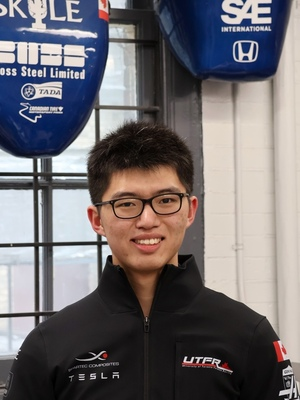
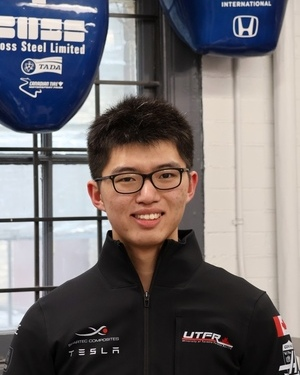
Added sponsor links and fixed image sizing

diff --git a/src/components/Sponsors.jsx b/src/components/Sponsors.jsx
@@ -226,54 +226,54 @@ const Sponsors = () => {
             <div className=''>
                 <div className='flex justify-center py-10 items-center'>
                     <div className='grid grid-cols-1 md:grid-cols-5 gap-x-10'>
-                        <a href="https://skule.ca/" target="_blank" rel="noreferrer">
+                        <a href="https://www.abcofreight.com/" target="_blank" rel="noreferrer">
                             <img className="sponsorImg" src={Abco} alt="" />
                         </a>
-                        <a href="https://skule.ca/" target="_blank" rel="noreferrer">
+                        <a href="https://www.abcofreight.com/" target="_blank" rel="noreferrer">
                             <img className="sponsorImg" src={AIHull} alt="" />
                         </a>
-                        <a href="https://skule.ca/" target="_blank" rel="noreferrer">
+                        <a href="https://www.altium.com/" target="_blank" rel="noreferrer">
                             <img className="sponsorImg" src={Altium} alt="" />
                         </a>
-                        <a href="https://skule.ca/" target="_blank" rel="noreferrer">
+                        <a href="https://www.ansys.com/academic/students/student-teams" target="_blank" rel="noreferrer">
                             <img className="sponsorImg" src={Ansys} alt="" />
                         </a>
-                        <a href="https://skule.ca/" target="_blank" rel="noreferrer">
+                        <a href="https://astg.ca/" target="_blank" rel="noreferrer">
                             <img className="sponsorImg" src={AST} alt="" />
                         </a>
                     </div>
                 </div>
                 <div className='flex justify-center pb-10 items-center'>
                     <div className='grid grid-cols-1 md:grid-cols-5 gap-x-10'>
-                        <a href="https://skule.ca/" target="_blank" rel="noreferrer">
+                        <a href="https://gamebridgegokarts.com/" target="_blank" rel="noreferrer">
                             <img className="sponsorImg" src={Brechin}  alt="" />
                         </a>
-                        <a href="https://skule.ca/" target="_blank" rel="noreferrer">
+                        <a href="https://disensors.com/" target="_blank" rel="noreferrer">
                             <img className="sponsorImg" src={Durham} alt="" />
                         </a>
-                        <a href="https://skule.ca/" target="_blank" rel="noreferrer">
+                        <a href="http://wihatools.ca/" target="_blank" rel="noreferrer">
                             <img className="sponsorImg" src={Wiha}  alt="" />
                         </a>
-                        <a href="https://skule.ca/" target="_blank" rel="noreferrer">
+                        <a href="https://emrax.com/" target="_blank" rel="noreferrer">
                             <img className="sponsorImg" src={Emrax} alt="" />
                         </a>
-                        <a href="https://skule.ca/" target="_blank" rel="noreferrer">
+                        <a href="http://gardel.on.ca/" target="_blank" rel="noreferrer">
                             <img className="sponsorImg" src={Gardel} alt="" />
                         </a>
                     </div>
                 </div>
                 <div className='flex justify-center pb-10 items-center'>
                     <div className='grid grid-cols-1 md:grid-cols-5 gap-x-10'>
-                        <a href="https://skule.ca/" target="_blank" rel="noreferrer">
+                        <a href="https://ghaasfoundation.org/content/ghf/en/home.html" target="_blank" rel="noreferrer">
                             <img className="sponsorImg" src={Haas} alt="" />
                         </a>
-                        <a href="https://skule.ca/" target="_blank" rel="noreferrer">
+                        <a href="http://hakkousa.com/" target="_blank" rel="noreferrer">
                             <img className="sponsorImg" src={Hakko}  alt="" />
                         </a>
-                        <a href="https://skule.ca/" target="_blank" rel="noreferrer">
+                        <a href="https://hawk-eye.com/" target="_blank" rel="noreferrer">
                             <img className="sponsorImg" src={HawkeyeIndustries} alt="" />
                         </a>
-                        <a href="https://skule.ca/" target="_blank" rel="noreferrer">
+                        <a href="https://www.kisssoft.com/de" target="_blank" rel="noreferrer">
                             <img className="sponsorImg" src={KissSoft} alt="" />
                         </a>
                         <a href="https://skule.ca/" target="_blank" rel="noreferrer">
@@ -283,64 +283,64 @@ const Sponsors = () => {
                 </div>
                 <div className='flex justify-center pb-10 items-center'>
                     <div className='grid grid-cols-1 md:grid-cols-5 gap-x-10'>
-                        <a href="https://skule.ca/" target="_blank" rel="noreferrer">
+                        <a href="https://thinklucid.com/" target="_blank" rel="noreferrer">
                             <img className="sponsorImg" src={Lucid} alt="" />
                         </a>
-                        <a href="https://skule.ca/" target="_blank" rel="noreferrer">
+                        <a href="https://www.multimatic.com/" target="_blank" rel="noreferrer">
                             <img className="sponsorImg" src={Multimatic} alt="" />
                         </a>
-                        <a href="https://skule.ca/" target="_blank" rel="noreferrer">
+                        <a href="https://ntn.ca/" target="_blank" rel="noreferrer">
                             <img className="sponsorImg" src={NTN} alt="" />
                         </a>
-                        <a href="https://skule.ca/" target="_blank" rel="noreferrer">
+                        <a href="http://orionbms.com/" target="_blank" rel="noreferrer">
                             <img className="sponsorImg" src={OrionBMS2} alt="" />
                         </a>
                     </div>
                 </div>
                 <div className='flex justify-center pb-10 items-center'>
                     <div className='grid grid-cols-1 md:grid-cols-5 gap-x-10'>
-                        <a href="https://skule.ca/" target="_blank" rel="noreferrer">
+                        <a href="https://www.saleae.com/" target="_blank" rel="noreferrer">
                             <img className="sponsorImg" src={Salae} alt="" />
                         </a>
-                        <a href="https://skule.ca/" target="_blank" rel="noreferrer">
+                        <a href="https://www.siemens.com/ca/en.html" target="_blank" rel="noreferrer">
                             <img className="sponsorImg" src={SherwinWilliams} alt="" />
                         </a>
-                        <a href="https://skule.ca/" target="_blank" rel="noreferrer">
+                        <a href="http://new.siemens.com/ca/en.html" target="_blank" rel="noreferrer">
                             <img className="sponsorImg" src={Siemens} alt="" />
                         </a>
-                        <a href="https://skule.ca/" target="_blank" rel="noreferrer">
+                        <a href="https://www.sparteccomposites.com/" target="_blank" rel="noreferrer">
                             <img className="sponsorImg" src={Spartec} alt="" />
                         </a>
-                        <a href="https://skule.ca/" target="_blank" rel="noreferrer">
+                        <a href="https://studentlife.utoronto.ca/program/student-initiative-fund/" target="_blank" rel="noreferrer">
                             <img className="sponsorImg" src={SIF} alt="" />
                         </a>
                     </div>
                 </div>
                 <div className='flex justify-center pb-10 items-center'>
                     <div className='grid grid-cols-1 md:grid-cols-5 gap-x-10'>
-                        <a href="https://skule.ca/" target="_blank" rel="noreferrer">
+                        <a href="http://te.com/global-en/home.html" target="_blank" rel="noreferrer">
                             <img className="sponsorImg" src={TE} alt="" />
                         </a>
-                        <a href="https://skule.ca/" target="_blank" rel="noreferrer">
+                        <a href="http://tek.com/en" target="_blank" rel="noreferrer">
                             <img className="sponsorImg" src={Tektronix} alt="" />
                         </a>
-                        <a href="https://skule.ca/" target="_blank" rel="noreferrer">
+                        <a href="http://texonic.net/en" target="_blank" rel="noreferrer">
                             <img className="sponsorImg" src={Texonic} alt="" />
                         </a>
-                        <a href="https://skule.ca/" target="_blank" rel="noreferrer">
+                        <a href="https://engsci.utoronto.ca/" target="_blank" rel="noreferrer">
                             <img className="sponsorImg" src={UofTEngSci} alt="" />
                         </a>
-                        <a href="https://skule.ca/" target="_blank" rel="noreferrer">
+                        <a href="http://www.villacharities.com/" target="_blank" rel="noreferrer">
                             <img className="sponsorImg" src={Villa} alt="" />
                         </a>
                     </div>
                 </div>
                 <div className='flex justify-center pb-16 items-center'>
                     <div className='grid grid-cols-1 md:grid-cols-2 gap-x-10'>
-                        <a href="https://skule.ca/" target="_blank" rel="noreferrer">
+                        <a href="http://www.wemas.de/" target="_blank" rel="noreferrer">
                             <img className="sponsorImg" src={Wemas} alt="" />
                         </a>
-                        <a href="https://skule.ca/" target="_blank" rel="noreferrer">
+                        <a href="https://www.electro-meters.com/" target="_blank" rel="noreferrer">
                             <img className="sponsorImg" src={EM} alt="" />
                         </a>
                     </div>
@@ -350,114 +350,114 @@ const Sponsors = () => {
             <div className=''>
                 <div className='flex justify-center py-10 items-center'>
                     <div className='grid grid-cols-1 md:grid-cols-5 gap-x-10'>
-                        <a href="https://skule.ca/" target="_blank" rel="noreferrer">
+                        <a href="https://altair.com/" target="_blank" rel="noreferrer">
                         <img className="sponsorImg" src={Altair} alt="" />
                         </a>
-                        <a href="https://skule.ca/" target="_blank" rel="noreferrer">
+                        <a href="https://atlht.ca/" target="_blank" rel="noreferrer">
                         <img className="sponsorImg" src={Atlantic} alt="" />
                         </a>
-                        <a href="https://skule.ca/" target="_blank" rel="noreferrer">
+                        <a href="https://atoms.mie.utoronto.ca/" target="_blank" rel="noreferrer">
                         <img className="sponsorImg" src={AtomsLab} alt="" />
                         </a>
-                        <a href="https://skule.ca/" target="_blank" rel="noreferrer">
+                        <a href="https://www.benderinc.com/" target="_blank" rel="noreferrer">
                         <img className="sponsorImg" src={Bender} alt="" />
                         </a>
-                        <a href="https://skule.ca/" target="_blank" rel="noreferrer">
+                        <a href="http://bmrswired.com/" target="_blank" rel="noreferrer">
                         <img className="sponsorImg" src={BMRSWired} alt="" />
                         </a>
                     </div>
                 </div>
                 <div className='flex justify-center pb-10 items-center'>
                     <div className='grid grid-cols-1 md:grid-cols-5 gap-x-10'>
-                        <a href="https://skule.ca/" target="_blank" rel="noreferrer">
+                        <a href="https://www.digikey.ca/" target="_blank" rel="noreferrer">
                         <img className="sponsorImg" src={DigiKey} alt="" />
                         </a>
-                        <a href="https://skule.ca/" target="_blank" rel="noreferrer">
+                        <a href="https://www.edmundoptics.ca/" target="_blank" rel="noreferrer">
                         <img className="sponsorImg" src={EdmundOptics} alt="" />
                         </a>
-                        <a href="https://skule.ca/" target="_blank" rel="noreferrer">
+                        <a href="https://www.factorytire.ca/" target="_blank" rel="noreferrer">
                         <img className="sponsorImg" src={FactoryTire} alt="" />
                         </a>
-                        <a href="https://skule.ca/" target="_blank" rel="noreferrer">
+                        <a href="http://hkmingda.com/" target="_blank" rel="noreferrer">
                         <img className="sponsorImg" src={HKMingda} alt="" />
                         </a>
-                        <a href="https://skule.ca/" target="_blank" rel="noreferrer">
+                        <a href="http://igus.ca/" target="_blank" rel="noreferrer">
                         <img className="sponsorImg" src={igus} alt="" />
                         </a>
                     </div>
                 </div>
                 <div className='flex justify-center pb-10 items-center'>
                     <div className='grid grid-cols-1 md:grid-cols-5 gap-x-10'>
-                        <a href="https://skule.ca/" target="_blank" rel="noreferrer">
+                        <a href="https://jlcpcb.com/" target="_blank" rel="noreferrer">
                         <img className="sponsorImg" src={JLCPCB} alt="" />
                         </a>
-                        <a href="https://skule.ca/" target="_blank" rel="noreferrer">
+                        <a href="https://lra3d.com/" target="_blank" rel="noreferrer">
                         <img className="sponsorImg" src={LRA} alt="" />
                         </a>
-                        <a href="https://skule.ca/" target="_blank" rel="noreferrer">
+                        <a href="https://www.maxongroup.com/maxon/view/content/index" target="_blank" rel="noreferrer">
                         <img className="sponsorImg" src={Maxon} alt="" />
                         </a>
-                        <a href="https://skule.ca/" target="_blank" rel="noreferrer">
+                        <a href="http://mechanicaladvertising.com/" target="_blank" rel="noreferrer">
                         <img className="sponsorImg" src={MechanicalAdvertising} alt="" />
                         </a>
-                        <a href="https://skule.ca/" target="_blank" rel="noreferrer">
+                        <a href="https://mgchemicals.com/" target="_blank" rel="noreferrer">
                         <img className="sponsorImg" src={MG} alt="" />
                         </a>
                     </div>
                 </div>
                 <div className='flex justify-center pb-10 items-center'>
                     <div className='grid grid-cols-1 md:grid-cols-5 gap-x-10'>
-                        <a href="https://skule.ca/" target="_blank" rel="noreferrer">
+                        <a href="http://nobleprecision.com/" target="_blank" rel="noreferrer">
                         <img className="sponsorImg" src={NPT} alt="" />
                         </a>
-                        <a href="https://skule.ca/" target="_blank" rel="noreferrer">
+                        <a href="http://www.oakvilleblueprinting.ca/" target="_blank" rel="noreferrer">
                         <img className="sponsorImg" src={OakvilleBlueprint} alt="" />
                         </a>
-                        <a href="https://skule.ca/" target="_blank" rel="noreferrer">
+                        <a href="https://oldershawsteel.com/" target="_blank" rel="noreferrer">
                         <img className="sponsorImg" src={Oldershaw} alt="" />
                         </a>
-                        <a href="https://skule.ca/" target="_blank" rel="noreferrer">
+                        <a href="http://oshawagear.ca/" target="_blank" rel="noreferrer">
                         <img className="sponsorImg" src={Oshawa} alt="" />
                         </a>
-                        <a href="https://skule.ca/" target="_blank" rel="noreferrer">
+                        <a href="https://www.flyribbit.com/" target="_blank" rel="noreferrer">
                         <img className="sponsorImg" src={Ribbit} alt="" />
                         </a>
                     </div>
                 </div>
                 <div className='flex justify-center pb-10 items-center'>
                     <div className='grid grid-cols-1 md:grid-cols-5 gap-x-10'>
-                        <a href="https://skule.ca/" target="_blank" rel="noreferrer">
+                        <a href="https://www.peak-system.com/Home.59.0.html?&L=1" target="_blank" rel="noreferrer">
                         <img className="sponsorImg" src={Peak} alt="" />
                         </a>
-                        <a href="https://skule.ca/" target="_blank" rel="noreferrer">
+                        <a href="https://phytools.com/" target="_blank" rel="noreferrer">
                         <img className="sponsorImg" src={Phytools} alt="" />
                         </a>
-                        <a href="https://skule.ca/" target="_blank" rel="noreferrer">
+                        <a href="http://susprog.com/index.html" target="_blank" rel="noreferrer">
                         <img className="sponsorImg" src={Susprog} alt="" />
                         </a>
-                        <a href="https://skule.ca/" target="_blank" rel="noreferrer">
+                        <a href="http://texense.com/en" target="_blank" rel="noreferrer">
                         <img className="sponsorImg" src={Texense} alt="" />
                         </a>
-                        <a href="https://skule.ca/" target="_blank" rel="noreferrer">
+                        <a href="https://www.textreme.com/" target="_blank" rel="noreferrer">
                         <img className="sponsorImg" src={Textreme} alt="" />
                         </a>
                     </div>
                 </div>
                 <div className='flex justify-center pb-16 items-center'>
                     <div className='grid grid-cols-1 md:grid-cols-5 gap-x-10'>
-                        <a href="https://skule.ca/" target="_blank" rel="noreferrer">
+                        <a href="https://utev.utoronto.ca/" target="_blank" rel="noreferrer">
                         <img className="sponsorImg" src={UTEV} alt="" />
                         </a>
-                        <a href="https://skule.ca/" target="_blank" rel="noreferrer">
+                        <a href="https://www.vi-grade.com/" target="_blank" rel="noreferrer">
                         <img className="sponsorImg" src={VI} alt="" />
                         </a>
-                        <a href="https://skule.ca/" target="_blank" rel="noreferrer">
+                        <a href="http://vr3.ca/" target="_blank" rel="noreferrer">
                         <img className="sponsorImg" src={VR3} alt="" />
                         </a>
-                        <a href="https://skule.ca/" target="_blank" rel="noreferrer">
+                        <a href="https://www.win-source.net/" target="_blank" rel="noreferrer">
                         <img className="sponsorImg" src={Winsource} alt="" />
                         </a>
-                        <a href="https://skule.ca/" target="_blank" rel="noreferrer">
+                        <a href="https://www.yourenext.ca/" target="_blank" rel="noreferrer">
                         <img className="sponsorImg" src={YNCN} alt="" />
                         </a>
                     </div>

diff --git a/src/components/Team2024.jsx b/src/components/Team2024.jsx
@@ -1,5 +1,6 @@
 import React from 'react'
 import { Fade } from "react-awesome-reveal";
+import TeamPhotoPlaceholder from '../assets/TeamMembers/TeamPhotoPlaceholder.png'
 
 // TEAM DIRECTORS
 import DanielLaRosa from '../assets/TeamMembers/DanielLaRosa.jpeg'
@@ -113,7 +114,7 @@ const Team2024 = () => {
         <div className='h-full w-full about grid md:grid-cols-2 lg:grid-cols-5 px-3'>
           <div className='w-[100%] my-auto py-10'>
             <Fade cascade delay={500} damping={0.1} triggerOnce>
-              <img src={DanielLaRosa} alt="team" className='my-auto mx-auto w-[90%]'/>
+              <img src={TeamPhotoPlaceholder} alt="team" className='my-auto mx-auto w-[90%]'/>
               <p className='personName'>Jasmine Wu</p>
               <p className='personTitle'>Aerodynamics Lead</p>
               <p className='personProgram'>Eng Sci 2T5 + PEY</p>
@@ -200,7 +201,7 @@ const Team2024 = () => {
         <div className='h-full w-full about grid md:grid-cols-2 lg:grid-cols-4 px-3'>
           <div className='w-[100%] my-auto py-10'>
             <Fade cascade delay={500} damping={0.1} triggerOnce>
-              <img src={DanielLaRosa} alt="team" className='my-auto mx-auto w-[90%]'/>
+              <img src={TeamPhotoPlaceholder} alt="team" className='my-auto mx-auto w-[90%]'/>
               <p className='personName'>Angus Zhang</p>
               <p className='personTitle'>Powertrain Lead</p>
               <p className='personProgram'>ECE 2T6 + PEY</p>
@@ -216,7 +217,7 @@ const Team2024 = () => {
           </div>
           <div className='w-[100%] my-auto py-10'>
             <Fade cascade delay={500} damping={0.1} triggerOnce>
-              <img src={DanielLaRosa} alt="team" className='my-auto mx-auto w-[90%]'/>
+              <img src={TeamPhotoPlaceholder} alt="team" className='my-auto mx-auto w-[90%]'/>
               <p className='personName'>Nicholas Burley</p>
               <p className='personTitle'>Controllers Lead</p>
               <p className='personProgram'>ECE 2T6 + PEY</p>
@@ -294,7 +295,7 @@ const Team2024 = () => {
           </div>
           <div className='w-[100%] my-auto py-10'>
             <Fade cascade delay={500} damping={0.1} triggerOnce>
-              <img src={DanielLaRosa} alt="team" className='my-auto mx-auto w-[90%]'/>
+              <img src={TeamPhotoPlaceholder} alt="team" className='my-auto mx-auto w-[90%]'/>
               <p className='personName'>Rebecca Schultz</p>
               <p className='personTitle'>Events Co-Lead</p>
               <p className='personProgram'>Rotman 2T4</p>
@@ -313,7 +314,7 @@ const Team2024 = () => {
               <img src={AmeliaDease} alt="team" className='my-auto mx-auto w-[90%]'/>
               <p className='personName'>Amelia Dease</p>
               <p className='personTitle'>Marketing Co-Lead</p>
-              <p className='personProgram'>Architecture 2T6</p>
+              <p className='personProgram'>Political Science 2T6</p>
             </Fade>
           </div>
           <div className='w-[100%] my-auto py-10'>
@@ -334,7 +335,7 @@ const Team2024 = () => {
           </div>
           <div className='w-[100%] my-auto py-10'>
             <Fade cascade delay={500} damping={0.1} triggerOnce>
-              <img src={DanielLaRosa} alt="team" className='my-auto mx-auto w-[90%]'/>
+              <img src={TeamPhotoPlaceholder} alt="team" className='my-auto mx-auto w-[90%]'/>
               <p className='personName'>Nicholas Burley</p>
               <p className='personTitle'>Recruitment Co-Lead</p>
               <p className='personProgram'>ECE 2T6 + PEY</p>

diff --git a/src/components/Countdown.jsx b/src/components/Countdown.jsx
@@ -1,5 +1,6 @@
 import React, {useState, useEffect} from 'react'
 import {getRemainingTimeUntilMStimestamp} from './CountdownLogic/CountdownTimerUtils'
+import { Fade } from "react-awesome-reveal";
 
 const defaultRemainingTime = {
     seconds: '00',
@@ -25,8 +26,9 @@ const Countdown = ({countdownTimestampMS}) => {
   return (
     <div className='w-full bg-[#131212] text-white'>
         <div className='p-8'>
-            <h1 className='countdownDay text-lg'>2023 TORONTO SHOOTOUT</h1>
-            <div className='countdownTimer py-12 text-3xl lg:text-5xl'>
+            <Fade triggerOnce delay={500}><h1 className='countdownDay text-lg'>2023 TORONTO SHOOTOUT</h1></Fade>
+            <div className='countdownTimer py-12 text-3xl lg:text-5xl flex'>
+                <Fade delay={500} triggerOnce>
                 <span className='font-semibold text-[#ED3833]'>{remainingTime.days}</span>
                 <span className='font-light'>days</span>
                 <span className='font-semibold two-numbers text-[#ED3833]'>{remainingTime.hours}</span>
@@ -35,6 +37,7 @@ const Countdown = ({countdownTimestampMS}) => {
                 <span className='font-light'>minutes</span>
                 <span className='font-semibold two-numbers text-[#ED3833]'>{remainingTime.seconds}</span>
                 <span className='font-light'>seconds</span>
+                </Fade>
             </div>
         </div>
     </div>
